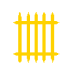
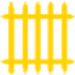
Changed the size of the PNG and made level 1

diff --git a/ThisMaze/lvl1.java b/ThisMaze/lvl1.java
@@ -17,5 +17,194 @@ public class lvl1 extends World
     {    
         // Create a new world with 600x400 cells with a cell size of 1x1 pixels.
         super(750, 750, 1); 
+        prepare();
+    }
+    
+    /**
+     * Prepare the world for the start of the program.
+     * That is: create the initial objects and add them to the world.
+     */
+    private void prepare()
+    {
+        Gate gate = new Gate();
+        addObject(gate,21,152);
+        Gate gate2 = new Gate();
+        addObject(gate2,20,199);
+        Gate gate3 = new Gate();
+        addObject(gate3,20,250);
+        Gate gate4 = new Gate();
+        addObject(gate4,20,303);
+        Gate gate5 = new Gate();
+        addObject(gate5,21,358);
+        Gate gate6 = new Gate();
+        addObject(gate6,21,415);
+        Gate gate7 = new Gate();
+        addObject(gate7,19,467);
+        Gate gate8 = new Gate();
+        addObject(gate8,20,518);
+        Gate gate9 = new Gate();
+        addObject(gate9,20,570);
+        Gate gate10 = new Gate();
+        addObject(gate10,21,621);
+        Gate gate11 = new Gate();
+        addObject(gate11,18,668);
+        Gate gate12 = new Gate();
+        addObject(gate12,19,723);
+        Gate gate13 = new Gate();
+        addObject(gate13,63,724);
+        Gate gate14 = new Gate();
+        addObject(gate14,107,725);
+        Gate gate15 = new Gate();
+        addObject(gate15,152,726);
+        Gate gate16 = new Gate();
+        addObject(gate16,195,725);
+        Gate gate17 = new Gate();
+        addObject(gate17,242,725);
+        Gate gate18 = new Gate();
+        addObject(gate18,284,726);
+        Gate gate19 = new Gate();
+        addObject(gate19,327,726);
+        Gate gate20 = new Gate();
+        addObject(gate20,369,726);
+        Gate gate21 = new Gate();
+        addObject(gate21,413,728);
+        Gate gate22 = new Gate();
+        addObject(gate22,460,727);
+        Gate gate23 = new Gate();
+        addObject(gate23,503,728);
+        Gate gate24 = new Gate();
+        addObject(gate24,543,727);
+        Gate gate25 = new Gate();
+        addObject(gate25,586,728);
+        Gate gate26 = new Gate();
+        addObject(gate26,629,729);
+        Gate gate27 = new Gate();
+        addObject(gate27,670,728);
+        Gate gate28 = new Gate();
+        addObject(gate28,714,727);
+        Gate gate29 = new Gate();
+        addObject(gate29,737,681);
+        Gate gate30 = new Gate();
+        addObject(gate30,736,634);
+        Gate gate31 = new Gate();
+        addObject(gate31,735,593);
+        Gate gate32 = new Gate();
+        addObject(gate32,733,544);
+        Gate gate33 = new Gate();
+        addObject(gate33,733,495);
+        Gate gate34 = new Gate();
+        addObject(gate34,732,444);
+        Gate gate35 = new Gate();
+        addObject(gate35,730,393);
+        Gate gate36 = new Gate();
+        addObject(gate36,729,343);
+        Gate gate37 = new Gate();
+        addObject(gate37,727,294);
+        Gate gate38 = new Gate();
+        addObject(gate38,728,243);
+        Gate gate39 = new Gate();
+        addObject(gate39,728,196);
+        Gate gate40 = new Gate();
+        addObject(gate40,727,144);
+        Gate gate41 = new Gate();
+        addObject(gate41,726,94);
+        Gate gate42 = new Gate();
+        addObject(gate42,728,42);
+        Gate gate43 = new Gate();
+        addObject(gate43,684,32);
+        Gate gate44 = new Gate();
+        addObject(gate44,641,29);
+        Gate gate45 = new Gate();
+        addObject(gate45,596,28);
+        Gate gate46 = new Gate();
+        addObject(gate46,550,28);
+        Gate gate47 = new Gate();
+        addObject(gate47,504,28);
+        Gate gate48 = new Gate();
+        addObject(gate48,458,30);
+        Gate gate49 = new Gate();
+        addObject(gate49,414,28);
+        Gate gate50 = new Gate();
+        addObject(gate50,364,28);
+        Gate gate51 = new Gate();
+        addObject(gate51,320,28);
+        Gate gate52 = new Gate();
+        addObject(gate52,276,29);
+        Gate gate53 = new Gate();
+        addObject(gate53,233,27);
+        Gate gate54 = new Gate();
+        addObject(gate54,189,25);
+        Gate gate55 = new Gate();
+        addObject(gate55,146,24);
+        Gate gate56 = new Gate();
+        addObject(gate56,181,157);
+        Gate gate57 = new Gate();
+        addObject(gate57,180,207);
+        Gate gate58 = new Gate();
+        addObject(gate58,181,255);
+        Gate gate59 = new Gate();
+        addObject(gate59,181,304);
+        Gate gate60 = new Gate();
+        addObject(gate60,180,355);
+        Gate gate61 = new Gate();
+        addObject(gate61,180,407);
+        Gate gate62 = new Gate();
+        addObject(gate62,181,458);
+        Gate gate63 = new Gate();
+        addObject(gate63,185,515);
+        Gate gate64 = new Gate();
+        addObject(gate64,181,566);
+        Gate gate65 = new Gate();
+        addObject(gate65,226,566);
+        Gate gate66 = new Gate();
+        addObject(gate66,270,569);
+        Gate gate67 = new Gate();
+        addObject(gate67,309,568);
+        Gate gate68 = new Gate();
+        addObject(gate68,353,569);
+        Gate gate69 = new Gate();
+        addObject(gate69,397,570);
+        Gate gate70 = new Gate();
+        addObject(gate70,440,571);
+        Gate gate71 = new Gate();
+        addObject(gate71,482,572);
+        Gate gate72 = new Gate();
+        addObject(gate72,522,571);
+        Gate gate73 = new Gate();
+        addObject(gate73,566,573);
+        Gate gate74 = new Gate();
+        addObject(gate74,563,523);
+        Gate gate75 = new Gate();
+        addObject(gate75,562,472);
+        Gate gate76 = new Gate();
+        addObject(gate76,560,422);
+        Gate gate77 = new Gate();
+        addObject(gate77,557,370);
+        Gate gate78 = new Gate();
+        addObject(gate78,558,320);
+        Gate gate79 = new Gate();
+        addObject(gate79,556,269);
+        Gate gate80 = new Gate();
+        addObject(gate80,553,220);
+        Gate gate81 = new Gate();
+        addObject(gate81,549,168);
+        Gate gate82 = new Gate();
+        addObject(gate82,365,83);
+        Gate gate83 = new Gate();
+        addObject(gate83,363,134);
+        Gate gate84 = new Gate();
+        addObject(gate84,359,186);
+        Gate gate85 = new Gate();
+        addObject(gate85,360,240);
+        Gate gate86 = new Gate();
+        addObject(gate86,358,303);
+        Gate gate87 = new Gate();
+        addObject(gate87,356,360);
+        Enemy enemy = new Enemy();
+        addObject(enemy,110,106);
+        Player player = new Player();
+        addObject(player,637,661);
+        Win win = new Win();
+        addObject(win,19,18);
     }
 }

diff --git a/ThisMaze/Player.java b/ThisMaze/Player.java
@@ -21,7 +21,7 @@ public class Player extends Actor
         if(collisionBarrier() == false) 
             movement();
         if(collisionBarrier() == true)
-            setLocation(getX()+speed, getY()+speed); 
+            setLocation(getX()-speed, getY()-speed); 
         
             
             
@@ -35,6 +35,7 @@ public class Player extends Actor
           setRotation(270);
           move(5);
           collisionWall();
+          collisionGate();
         }
         
         if(Greenfoot.isKeyDown("a"))
@@ -42,6 +43,7 @@ public class Player extends Actor
           setRotation(180);
           move(5); 
           collisionWall();
+          collisionGate();
         }
         
         if(Greenfoot.isKeyDown("s"))
@@ -49,6 +51,7 @@ public class Player extends Actor
           setRotation(90);
           move(5);
           collisionWall();
+          collisionGate();
         }
         
         if(Greenfoot.isKeyDown("d"))
@@ -56,6 +59,7 @@ public class Player extends Actor
           setRotation(0);
           move(5); 
           collisionWall();
+          collisionGate();
         }
         
     }
@@ -64,6 +68,15 @@ public class Player extends Actor
     {
         Actor wall1 = getOneIntersectingObject(Wall.class);
         if(wall1 != null)
+        {
+            move(-5);
+        }
+    }
+    
+      public void collisionGate()
+    {
+        Actor gate = getOneIntersectingObject(Gate.class);
+        if(gate != null)
         {
             move(-5);
         }
@@ -89,7 +102,7 @@ public class Player extends Actor
            tempBarrier barrier = new tempBarrier();
            
            //Grabbing X and Y coordinates for player and telling the game to place a barrier at that location
-           getWorld().addObject(barrier, getX()+3, getY()+3);
+           getWorld().addObject(barrier, getX(), getY());
            
            //Setting timer to 300
            timer=300;
